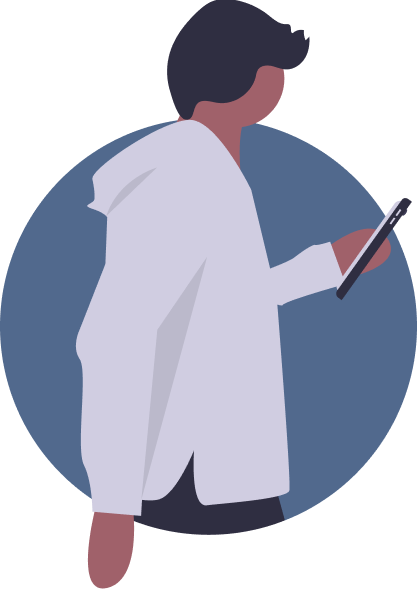
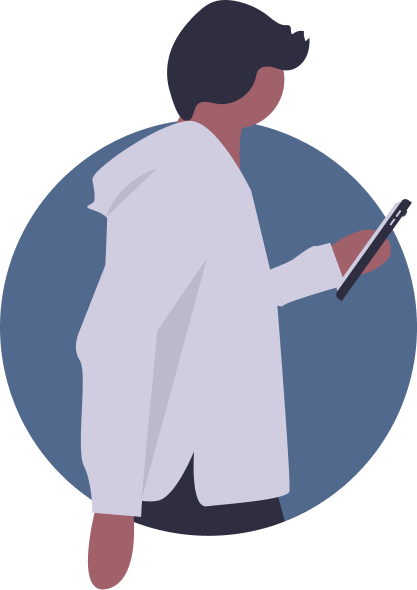
finished styling landing page

diff --git a/marketing_site/index.html b/marketing_site/index.html
@@ -19,7 +19,7 @@
   <body>
     <section class="header">
       <h1>BubbleUp</h1>
-      <h3 class="subhead">The app to help you navigate safe social gathering during
+      <h3  >The app to help you navigate safe social gathering during
         the pandemic.</h3>
     </section>
     <a class="emailBanner">
@@ -31,25 +31,28 @@
     <section>
       <div class="flex"/>
         <img src="./assets/girl1.png" class="singleBubble"/>
+        <span>
+        <h3  >Are you part of a Covid-19 social bubble?</h3>
         <p>One of the most commonly recommended ways to socialize while minimizing risk
           during the pandemic is by creating a "bubble".
           Eventually, however, people in the bubble <i>will</i>
-          leave the bubble. <b>Work, doctor's appointments,
+          leave the bubble. <b>Work, doctor's appointments, childcare arrangements,
           family trips, and other exceptions are inevitable,</b> but keeping your
-          bubble up to date with everyone's activities is difficult when communication
+          bubble up to date with everyone's activities is hard when communication
           is spread across phone calls, group chats, personal texts, long chain emails, and more.
           <br/><br/>
-          <b>If only there was one place to act as a source of truth, where you could
-          gather and manage the information your bubble needs to operate safely...</b>
+          <b>If only there was a hub where you could
+          gather and manage all the information your bubble needs to operate safely...</b>
         </p>
-        <img src="./assets/boy1.png" class="singleBubble"/>
+      </span>
       </div>
     </section>
-     <section class="blueBG">
-      <h3 class="subhead">Meet BubbleUp.</h3>
+     <section class="blueBG flex">
+       <span>
+      <h3  >Meet BubbleUp: simple, social, safe.</h3>
       <p>Create a bubble, add your friends, establish your bubble's guidelines
         and use our quick check-in to share recent activity information. Next time
-        you want to hang out, BubbleUp to see:</p>
+        you want to meet up, BubbleUp to see:</p>
       <ul>
         <li>the last time your friends socialized outside the bubble</li>
         <li>if they were indoors, wearing a mask, and socially distant</li>
@@ -61,21 +64,25 @@
       <b>BubbleUp helps you include these variables as a realistic
       part of your planning.</b> Because we all deserve to feel empowered when
       making decisions about our own safety.</p>
+    </span>
+
+    <img src="./assets/boy1.png" class="singleBubble"/>
     </section>
-    <section>
-      <h3 class="subhead">Your information is <i>only</i> visible to the people in your bubble.</h3>
-      <p> We will <b>never</b> track or ask your location, <b>never</b> gather any data using background
-      services, and <b>never</b> sell your information.
-      All activity information is self-reported
-      by you, and <b>never</b> shared
-      outside your bubble. Every check-in question is optional, and the only "personal"
-      information we require is an email address & username. Share confidently with
-      your bubble, knowing nobody else will ever see it. </p>
-      <h3 class="subhead">Simple, social, safe.</h3>
+    <section class="flex privacy">
+      <img src="./assets/group.png" class="group"/>
+      <span>
+        <h3  >Your activity is <i>only</i> visible to the people in your bubble.</h3>
+        <p> We will <b>never</b> track or ask your location, <b>never</b> gather any data using background
+        services, and <b>never</b> sell any data.
+        All activity information is self-reported
+        by you, and <b>never</b> shared
+        outside your bubble. Every check-in question is optional, and the only "personal"
+        information we require is an email address & username. Share confidently within
+        your bubble.</p>
+      </span>
     </section>
     <section class="callout">
-      <h4>We're still in development – sign up, and we'll let you know
-      as soon as we launch!</h4>
+      <h3>We're still in development – sign up, and you'll be the first to know when we launch!</h3>
       [ email signup form here ]
       <p>If you'd like to help further, you can also take this quick survey to help us
         decide which features to prioritize. Thank you, and stay safe!</p>

diff --git a/marketing_site/styles.css b/marketing_site/styles.css
@@ -10,12 +10,21 @@ section {
 
 .flex {
   display: flex;
+  flex-wrap: wrap;
+  justify-content: space-around;
+  align-items: center;
 }
 
 .singleBubble {
-  min-width: 100px;
-  height: 180px;
-  padding: 20px 30px;
+  width: 100%;
+  max-width: 170px;
+  padding: 10px;
+}
+
+.group {
+  max-width: 350px;
+  width: 100%;
+  padding: 10px;
 }
 
 .header {
@@ -38,21 +47,25 @@ section {
 
 p, ul {
   max-width: 800px;
-  margin: auto;
 }
 
 ul {
-  margin: 20px auto;
+  margin: 20px;
+}
+
+h1, h3, p, ul {
+  padding: 0 20px;
 }
 
 .emailBanner p {
-  background-color: #51698D;
+  background-color: #84B99A;
   color: white;
   font-weight: bold;
   text-align: center;
   width: 100%;
   max-width: 100%;
   padding: 10px 0;
+  margin: 0;
 }
 
 .background {
@@ -65,43 +78,86 @@ ul {
 }
 
 h1 {
-  font-size: 5rem;
+  font-size: 5.5rem;
   text-align: center;
   margin: 0;
   padding: 30px 0 0;
   color: #51698D;
   font-family: 'Quicksand', sans-serif;
-}
-
-.subhead {
-  text-align: center;
+  font-weight: 700;
+  letter-spacing: -4px;
 }
 
 h3 {
-  font-size: 1.5rem;
+  font-family: 'Quicksand', sans-serif;
+  font-size: 1.8rem;
   color: #27444d;
   margin: 0 0 20px 0;
 }
 
 .callout {
-  margin: 40px auto;
-  padding: 10px;
+  background-color: #84B99A;
   text-align: center;
-  max-width: 800px;
-  border-radius: 10px;
-  background-color: #82bed1;
+  color: white;
 }
 
-.callout h4 {
-  font-size: 1.3rem;
-  margin: 0;
+.callout h3 {
+  color: white;
+}
+
+.callout p {
+  max-width: 100%;
 }
 
 .blueBG {
-  background-color: rgba(81, 105, 141, 0.2);
-  border-top: 1px solid rgba(81, 105, 141, 0.25);
-  border-bottom: 1px solid rgba(81, 105, 141, 0.25);
-  -webkit-box-shadow: 0px 0px 15px 0px rgba(50, 50, 50, 0.25);
--moz-box-shadow:    0px 0px 15px 0px rgba(50, 50, 50, 0.25);
-box-shadow:         0px 0px 15px 0px rgba(50, 50, 50, 0.25);
+  background-color: #E5E9EE;
+flex-wrap: wrap-reverse;
+}
+
+.privacy span {
+  max-width: 700px;
+  width: 100%;
+}
+
+@media (max-width: 1070px) {
+  .privacy span {
+    max-width: 800px;
+  }
+}
+
+@media (max-width: 600px) {
+  h1 {
+    font-size: 4rem;
+    padding: 0;
+  }
+
+  .header h3 {
+    font-size: 1.4rem;
+    max-width: 300px;
+  }
+
+  h3 {
+    font-size: 1.4rem;
+  }
+
+  .header {
+    background-image: url(./assets/header.png);
+    background-position: center;
+    background-size: 180% 100%;
+    max-width: 100%;
+    min-height: 180px;
+    padding: 30px 0 10px 0;
+  }
+
+  .singleBubble {
+    width: 100%;
+    max-width: 100px;
+    padding: 10px;
+  }
+
+  .group {
+    max-width: 300px;
+    width: 100%;
+    padding: 10px;
+  }
 }
